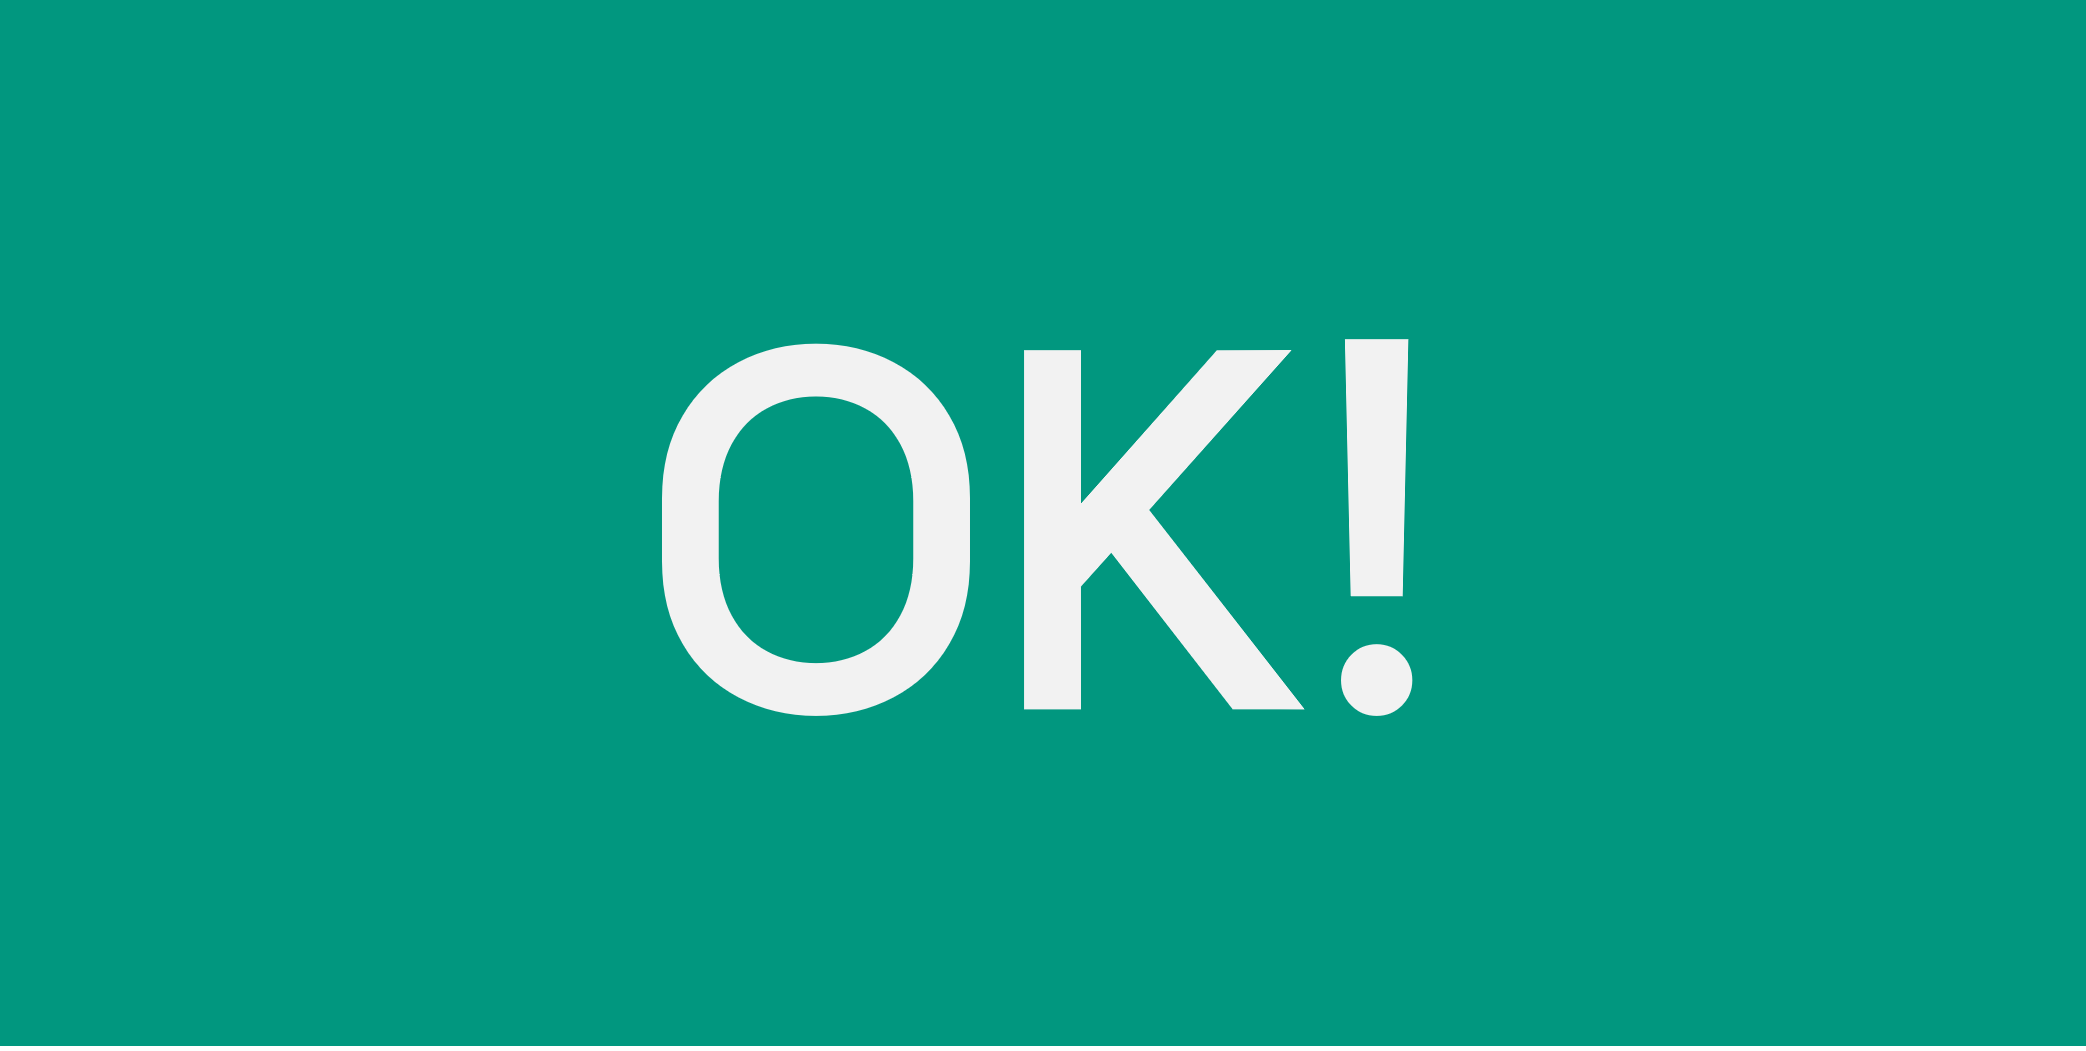
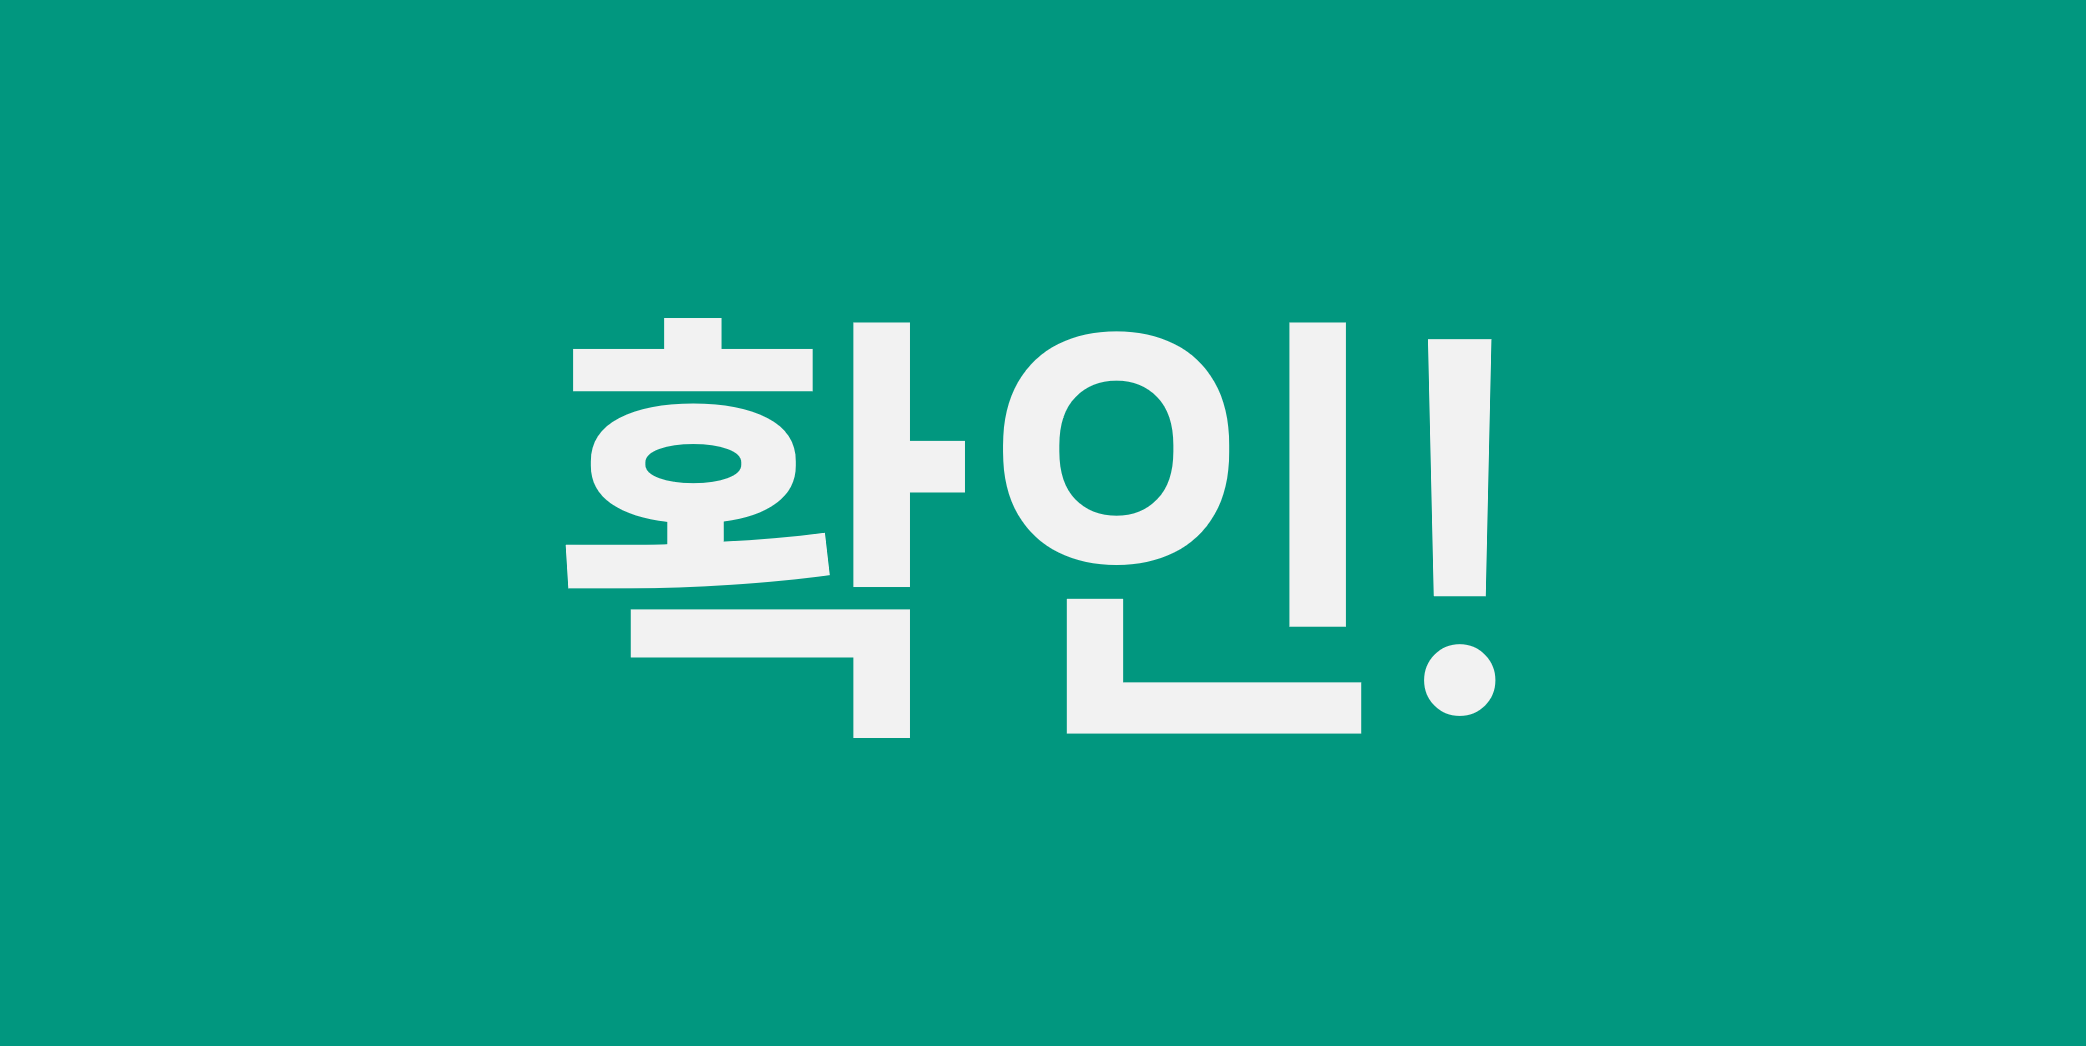
2024/05/27 16:30 Commit

Changed region(s): [[0.2493, 0.3045, 0.7167, 0.7003]]

diff --git a/raspberry_Ecoarium/ecosys_s.py b/raspberry_Ecoarium/ecosys_s.py
@@ -10,11 +10,9 @@ from imutils.video import VideoStream
 from pyzbar import pyzbar
 
 # Location INFO
-# 위치정보
 location = "JT_0"
 
 # Ecoarium file Installation path
-# 에코아리움 파일 설치 경로
 ecosys_path = "/home/pi/Ecoarium"
 
 # Server INFO
@@ -71,7 +69,6 @@ def req_image(img_path):
         return None
     
 
-# 프로그램 실행 시 각 단계를 출력하기 위한 함수
 def show_msg_window(message, callback=None):
     # Create the message window
     msg_window = tk.Toplevel()
@@ -185,31 +182,31 @@ def read_qr():
         key = cv2.waitKey(1) & 0xFF
         
         # Check if 10 seconds have passed
-        if time.time() - start_time > 20:
+        if time.time() - start_time > 15:
             # Clean up
             print("[INFO] Cleaning up...")
             cv2.destroyAllWindows()
             vs.stop()
-            return 5  # 반환값이 5일 경우, QR 인식시간 초과 에러
+            return 3  # TimeOut
 
 # DEF: LOGIN
 def login():
     global nickname, userId, userpoint, login_button
     barcodeData = read_qr()
-    if barcodeData == 5:
-        show_msg_window("[ERROR CODE 5] 20초 안에 QR코드를 입력하세요")
-        return 5
+    if barcodeData == 3:
+        show_msg_window("[ERROR CODE 3] Login timeout")
+        return 3
     response = req_qr(barcodeData)
     # 정상적으로 응답이 오면 response에는 userdata가 담김
     if response:  # Check if response is not None
         if response.text == '1':
-            show_msg_window("[ERROR CODE 1] 승인되지 않은 유저입니다.")
+            show_msg_window("[ERROR CODE 1]User identification error")
             return 1
         elif response.text == '2':
-            show_msg_window("[ERROR CODE 2] 잘못된 QR 코드입니다.")
+            show_msg_window("[ERROR CODE 2]QR code mismatch")
             return 2
         elif response.text == '3':
-            show_msg_window("[ERROR CODE 3] 로그인 타임아웃. 새로 변경된 QR 코드를 입력하세요.")
+            show_msg_window("[ERROR CODE 3]Login timeout")
             return 3
         else:
             # 로그인 성공
@@ -218,7 +215,7 @@ def login():
                 userId = user['id']
                 nickname = user['nickname']
                 userpoint = user['points']
-                show_msg_window(f"안녕하세요, {nickname}님! 현재 스탬프는 {userpoint}개 입니다.", place_cup_open)
+                show_msg_window("Welcome, " + nickname + "!", place_cup_open)
             except ValueError:
                 print("[ERROR] Invalid JSON format received from the server.")
                 return 4
@@ -237,19 +234,19 @@ def door_close():
 def place_cup_open():
     ### DOOR OPEN 작업 필요###### DOOR OPEN 작업 필요###### DOOR OPEN 작업 필요###### DOOR OPEN 작업 필요###### DOOR OPEN 작업 필요###### DOOR OPEN 작업 필요###### DOOR OPEN 작업 필요###
     door_open()
-    show_msg_window("[INFO] 열린 문 내부로 플라스틱 컵을 놓아주세요.", place_cup_close)
+    show_msg_window("[INFO] Place the cup in the machine", place_cup_close)
     pass
 
 # DEF: After placing the cup in machine, Close the door and capture img
 def place_cup_close():
     door_close()
-    show_msg_window("[INFO] 플라스틱 컵의 사진을 촬영합니다.", capture_send_img)
+    show_msg_window("[INFO] Take a picture of the cup.", capture_send_img)
     pass
 
 # DEF:
 def bring_cup_open():
     door_open()
-    show_msg_window("[INFO] 플라스틱 컵을 다시 회수해 주세요.", door_close)
+    show_msg_window("[INFO] Bring the cup back", door_close)
     pass
 
 # DEF: capture img and send img
@@ -260,13 +257,13 @@ def capture_send_img():
     if response:
         score = float(response.strip())
         if score > 0.5:
-            show_msg_window("[INFO] 수거가 불가능한 플라스틱 컵입니다.", bring_cup_open)
+            show_msg_window("[INFO] This is not a suitable cup.", bring_cup_open)
             print("[INFO] Image Uploaded. RESPONSE:", response)
         else:
-            show_msg_window(f"[INFO] 스탬프 저장이 완료되었습니다!\n현재 {userpoint+1}개의 스탬프를 모았어요.")
+            show_msg_window(f"[INFO] Stamp save complete! Stamp: {userpoint+1}")
             print("[INFO] Image Uploaded. RESPONSE:", response)
     else:
-        show_msg_window("[ERROR] 이미지 업로드 실패. 관리자 확인 요망")
+        show_msg_window("[ERROR] Failed to upload image.")
         print("[ERROR] Failed to upload image.")
     pass
 
@@ -343,6 +340,8 @@ def aboutEcoarium():
 
     # Start the event loop for the Ecoarium window
     ecoarium_window.mainloop()
+
+    
 
 def main():
     global root, login_button, canvas, screen_height, screen_width
